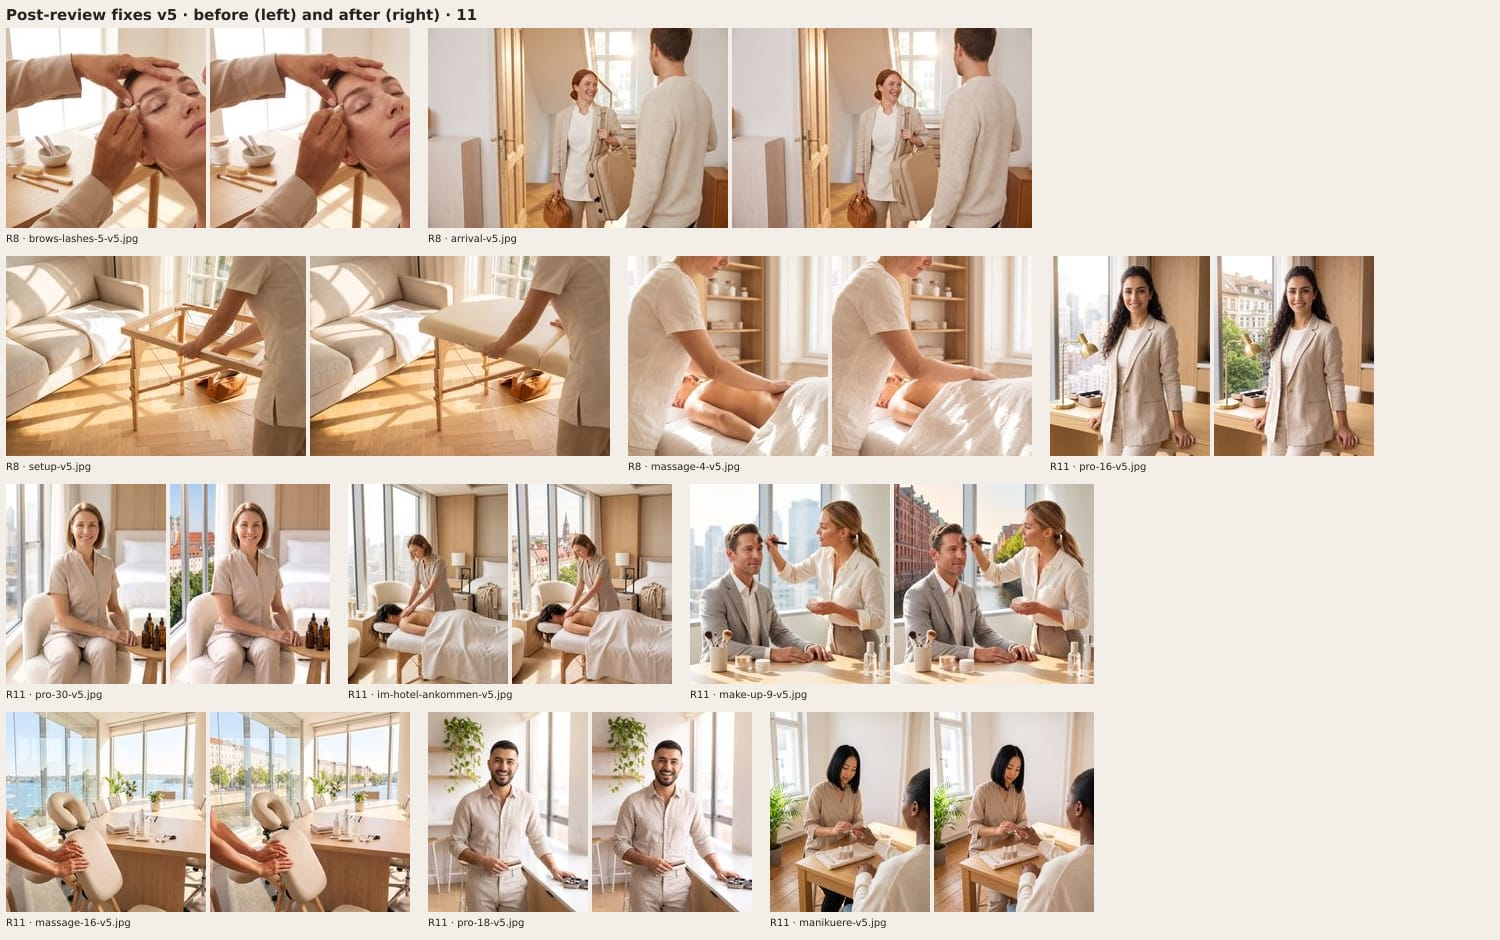
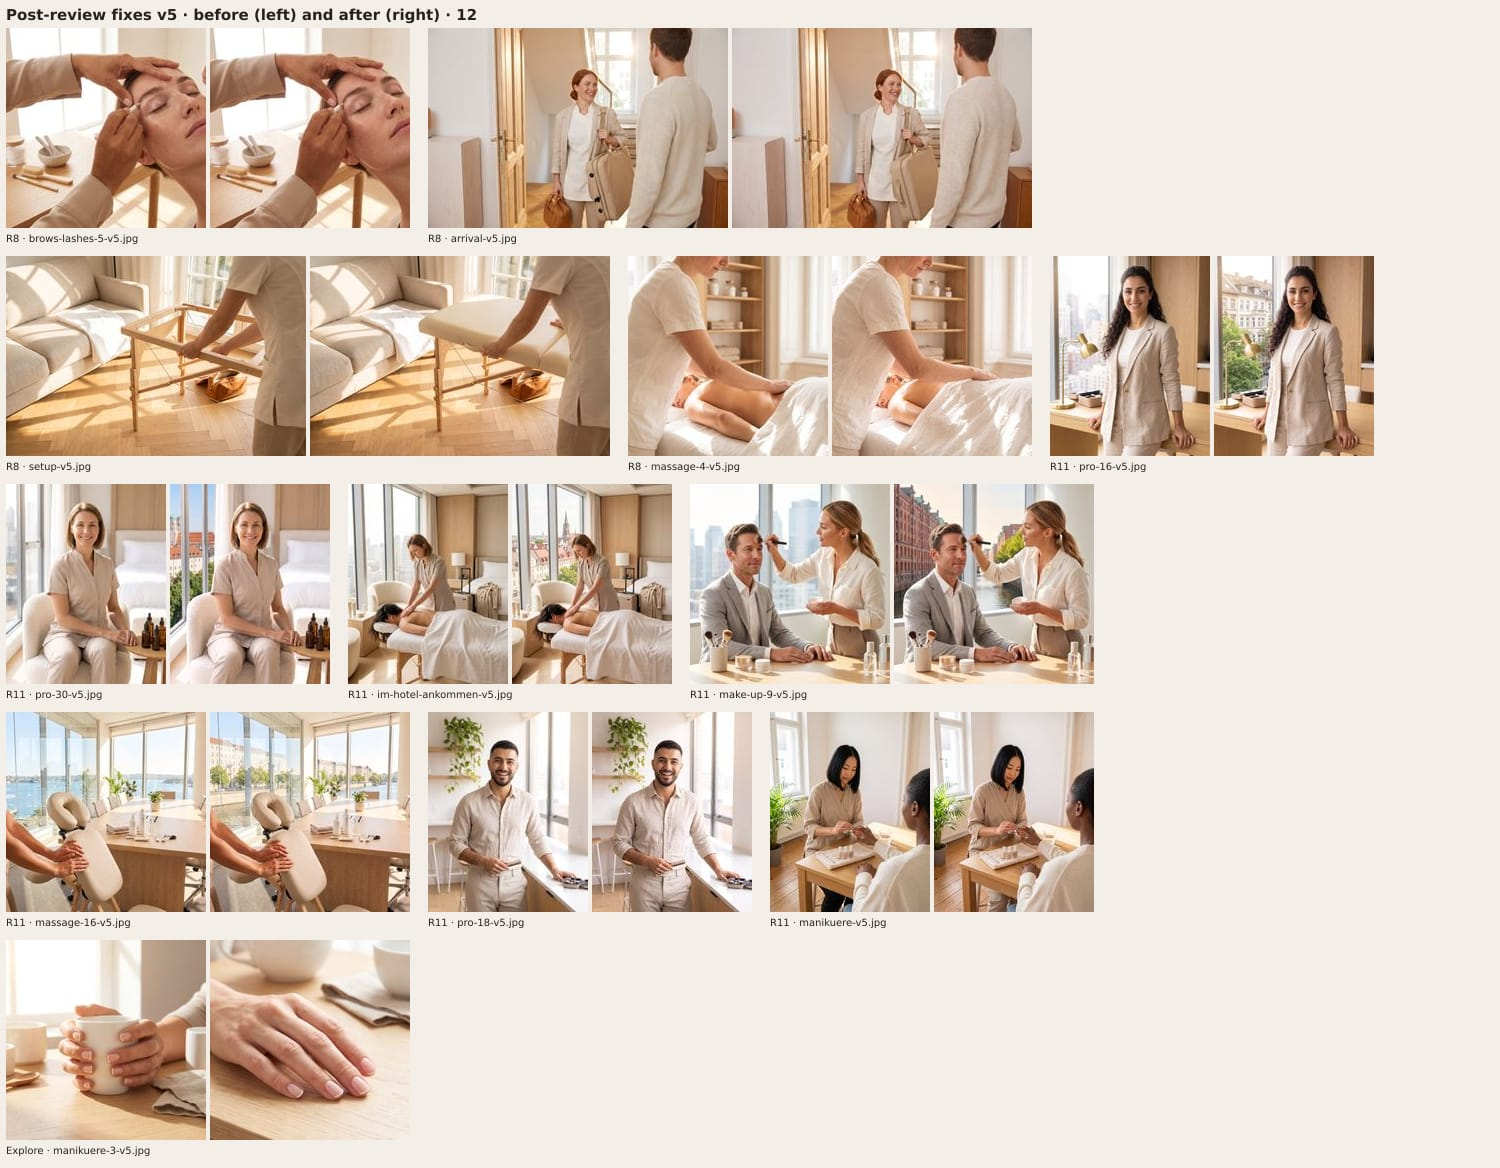
SOMA photography post-review fixes: manikuere-3-v5 passes QA; AUDIT-v4 post-review section complete
The new frame carries its caption „Micro-French auf kurzen Nägeln“ at card size (nails as the subject).
v5: 12 fixes, all pass, 28 of 35 credits.

Claude-Session: https://claude.ai/code/session_01TQr1HnsQyCCMSdmT7pJpAS

diff --git a/brand/photography/AUDIT-v4.md b/brand/photography/AUDIT-v4.md
@@ -63,10 +63,10 @@ QA: every file at full size; identity checked as v3/v4 face pairs; hands and lim
 
 | | |
 |---|---|
-| Credits | **24** of 35 (balance 742.99 → 718.99) |
-| Generations | **12** (11 fixes + 1 retry) |
+| Credits | **28** of 35 (balance 742.99 → 714.99) |
+| Generations | **14** (12 fixes + 1 retry + 1 second variant of F12, not used) |
 | Rejected in QA | **1** |
-| Final | **11** fixes, all pass |
+| Final | **12** fixes, all pass |
 
 | Review | v5 file | Replaces | Issue | Verdict | Reason (final) | Rejected attempts | Luma before → after | Job |
 |---|---|---|---|---|---|---|---|---|
@@ -81,8 +81,11 @@ QA: every file at full size; identity checked as v3/v4 face pairs; hands and lim
 | R11 | `portfolio/massage-16-v5.jpg` | `portfolio/massage-16-v3.jpg` | an office over Sydney Harbour (Hanna B., Berlin) | **pass** | Berlin: the Spree with stone embankments, trees and light Altbau façades; no harbour, bridge or opera house; chair, hands and room unchanged | – | 183 → 180 | `83c93401` |
 | R11 | `pros/pro-18-v5.jpg` | `pros/pro-18-v4.jpg` | US-style switch and outlet plates (Emre Y., Köln) | **pass** | switch and socket plates gone, plain white walls; Emre, comb, case and kitchen unchanged | – | 186 → 186 | `f29c24e7` |
 | R11 | `categories/manikuere-v5.jpg` | `categories/manikuere-v3.jpg` | the nail professional wears black trousers | **pass** | light sand trousers matching the tunic, no black left; hands, file, polish and client unchanged | – | 166 → 169 | `f687cbbc` |
+| Explore | `portfolio/manikuere-3-v5.jpg` | `portfolio/manikuere-3-v3.jpg` | caption „Micro-French auf kurzen Nägeln“, but at card size the picture reads as two hands holding a cup | **pass** | one hand palm-down on light oak, the nails are the subject: short soft-square nude nails, each with a crisp thin white tip, legible at 260 and 160 px; natural hand (thumb tucked behind), cup and napkin out of focus; no text or logos | – | 186 → 176 | `cd42b0ef` |
 
 **R10, the soft photo on the auth pages.** `/anmelden`, `/registrieren` and `/passwort-vergessen` (and the `/staedte/[stadt]` hero) show `images.editorial.arrival` in a 4:5 arch; that path resolved through `replacedBy` to the 3:2 `arrival-v3`, object-covered into the 384 × 480 arch, so the browser's `w=384` / `w=828` candidates were upscaled about 1.8× and looked soft, and it showed the torn bag of R8. No code change (the review's first option): `editorial/arrival.jpg` now has `replacedBy` → `editorial/arrival-4x5-v5.jpg`, a real 4:5 crop of the fixed arrival-v5 source (1200 × 1500, focal 55% 50%: the Profi with her intact table case, the client's shoulder at the right), which fills the arch without upscaling at 1× and 2×. The landing vignette keeps its own 3:2 chain (arrival-v2 → v3 → v5).
+
+**manikuere-3 (Lead, from the Explore engineer).** `portfolio/manikuere-3-v3` carries the caption „Micro-French auf kurzen Nägeln“ and is the work photo on Mai T.'s „Shellac-Maniküre“ card. At full size the caption is true (nine nails, each with a thin white tip), but the frame is two hands round a cup: at card size (about 260 px) the tips are 2 px and the picture reads as „hands holding a cup“ (review § Für dich, point 2). So the picture, not the text, was wrong: re-captioning it as a cup would have taken it out of the manicure pool. F12 is a new frame (text only, the v3 style block, not an edit) with one hand and its nails as the subject; caption, ratio and focal stay.
 
 **R7, avatars.** 30 square head-and-shoulders crops, one per current portrait, made locally with sharp by `tools/avatars.mjs` (same mechanism as `tools/recrops.mjs`: an entry with `recropOf` and `box`, the file committed, the capture workflow leaves it as it is). Face box per portrait from OpenCV Haar cascades (`avatars.json`); crop side = face width / 0.6, so the face fills **60 %** of the crop width (target 55–65 %), face centre at 50 % across and 50 % down, no crop had to be clamped at an image edge; output 512 × 512 at `/images/pros/pro-NN-v4-face.jpg` (`-v5-face` for 16, 18, 30). Each portrait's **current** registry entry carries `"avatar": "<face path>"`; the code lookup with fallback belongs to the Explore engineer. Checked on `v3/11-avatars.jpg` (each crop as a circle at 64 px and 160 px): every face centred and complete, chin to hair inside the circle.
 
